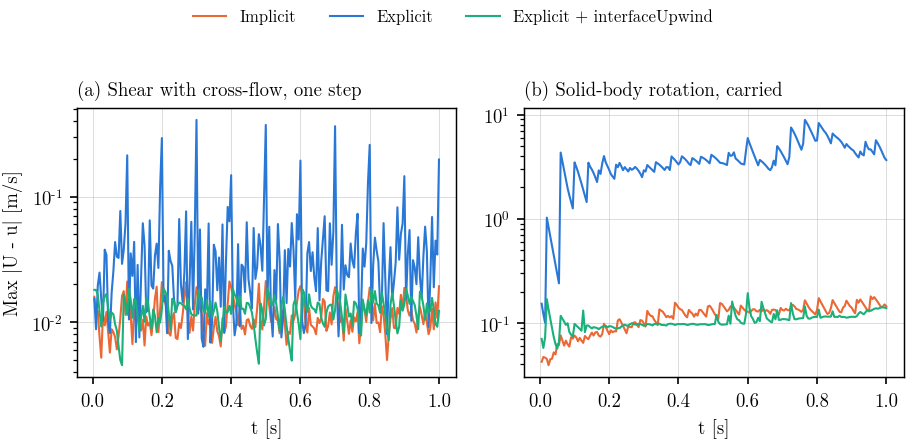
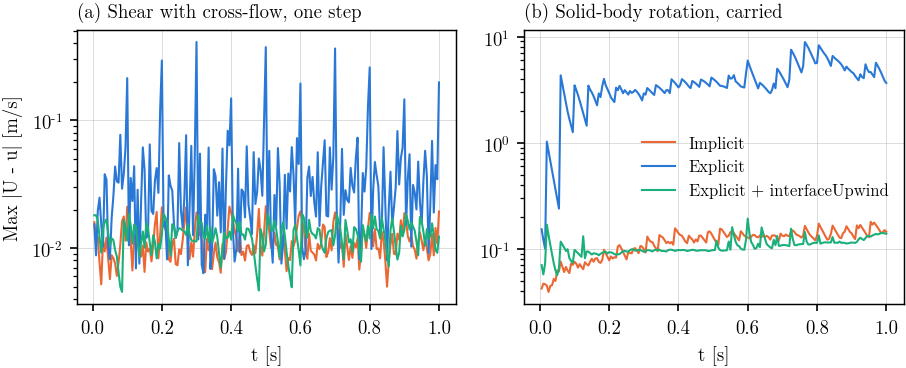
fig_rigErrors: legend inside panel (b)

diff --git a/papers/part2/fig_rigErrors/make.py b/papers/part2/fig_rigErrors/make.py
@@ -14,7 +14,7 @@ from common import RIG, plt, save, FULL, COL
 VAR = [("implEuler_new", "implicit", COL["implicit"], "-"),
        ("explEuler_new", "explicit", COL["explicit"], "-"),
        ("explIU_new", "explicit + interfaceUpwind", COL["explicit + interfaceUpwind"], "-")]
-fig, axes = plt.subplots(1, 2, figsize=(FULL, 3.1))
+fig, axes = plt.subplots(1, 2, figsize=(FULL, 2.7))
 for ax, (case, title) in zip(axes, [("shear", "(a) shear with cross-flow, one step"),
                                      ("rotationCarried", "(b) solid-body rotation, carried")]):
     for v, lab, c, ls in VAR:
@@ -22,7 +22,6 @@ for ax, (case, title) in zip(axes, [("shear", "(a) shear with cross-flow, one st
         ax.semilogy(d[:, 0], d[:, 1], ls, color=c, lw=1.0, label=lab)
     ax.set_title(title, fontsize=9, loc="left"); ax.set_xlabel("t [s]")
 axes[0].set_ylabel("max |U - u| [m/s]")
-h, l = axes[0].get_legend_handles_labels()
-fig.legend(h, l, loc="upper center", ncol=3, fontsize=8, bbox_to_anchor=(0.5, 1.0))
-fig.tight_layout(rect=(0, 0, 1, 0.86))
+axes[1].legend(loc="center right", fontsize=8, framealpha=0.9)
+fig.tight_layout()
 save(fig, "rigErrors")
